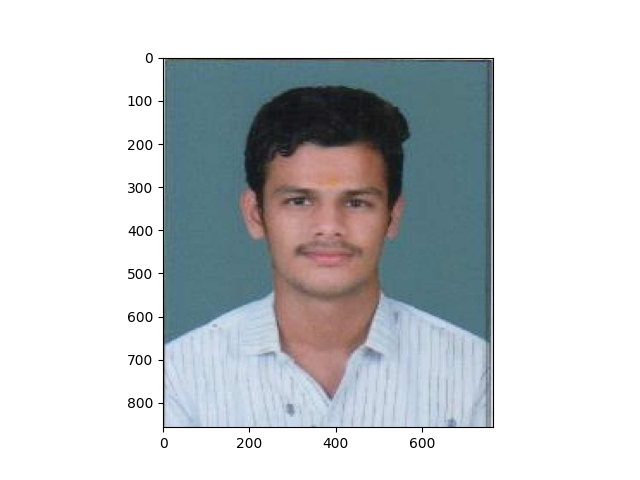
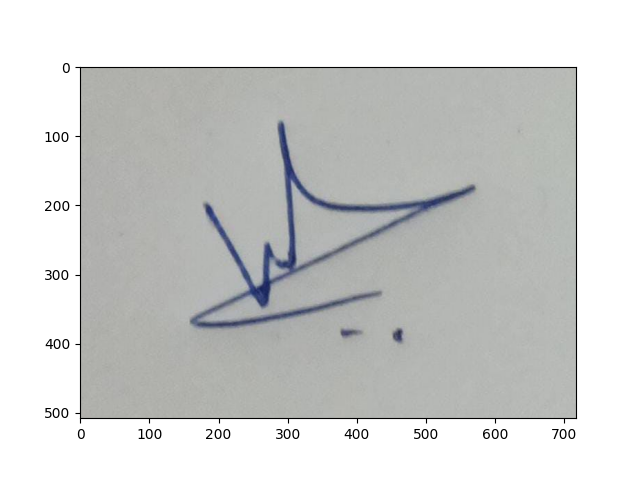
updated the skin disease detection model and the predict route

diff --git a/routes.py b/routes.py
@@ -1,54 +1,29 @@
 from flask import Blueprint,jsonify,request
-import matplotlib
-matplotlib.use('Agg')
-import matplotlib.pyplot as plt
-import cv2
-from tensorflow.keras.applications import MobileNetV2
 from tensorflow.keras.models import load_model
+from tensorflow.keras.preprocessing import image
 from tensorflow.keras.utils import load_img,img_to_array
 import numpy as np
+from io import BytesIO
 
 main = Blueprint('main',__name__)
-
-def predict_image(img_path,model,class_indices):
-    img = load_img(img_path,target_size=(224,224))
-    img_array = img_to_array(img) / 255.0
-    img_array = np.expand_dims(img_array,axis=0)
-
-    predictions = model.predict(img_array)
-    predicted_index = np.argmax(predictions,axis=1)[0]
-
-    #Map class to label
-    labels = dict((v,k) for k,v in class_indices.items())
-    return labels[predicted_index]
 
 @main.route('/predict',methods = ['POST'])
 def perdict():
 
     try:
         data = request.files['file']
-        img_path = data
-        class_indices = {'Actinic keratosis': 0,
- 'Atopic Dermatitis': 1,
- 'Benign keratosis': 2,
- 'Dermatofibroma': 3,
- 'Melanocytic nevus': 4,
- 'Melanoma': 5,
- 'Squamous cell carcinoma': 6,
- 'Tinea Ringworm Candidiasis': 7,
- 'Vascular lesion': 8}
-        model = load_model("skin_disease_model.keras",compile=False)
-
-        file_bytes = np.frombuffer(data.read(),np.uint8)
-        img = cv2.imdecode(file_bytes,cv2.IMREAD_COLOR)
-
-        img_rgb = cv2.cvtColor(img,cv2.COLOR_BGR2RGB)
-
-        plt.imshow(img_rgb)
-        plt.savefig('output.png')
+        class_names = ['akiec','bcc','bkl','df','mel','nv','vasc']
         
-        prediction = predict_image(img_path,model,class_indices)
-        print(prediction)
+        model = load_model("models/skin_cancer_model.h5",compile=False)
+        img_path = BytesIO(data.read())
+        img = image.load_img(img_path,target_size=(32,32))
+        img_array = image.img_to_array(img)/255.0
+        img_array = np.expand_dims(img_array,axis=0)
+        
+        predict = model.predict(img_array)
+        res = class_names[np.argmax(predict)]
+
+        print('helo',res)
         return jsonify({'res':'result'}),200
     except Exception as e:
         print(e)
